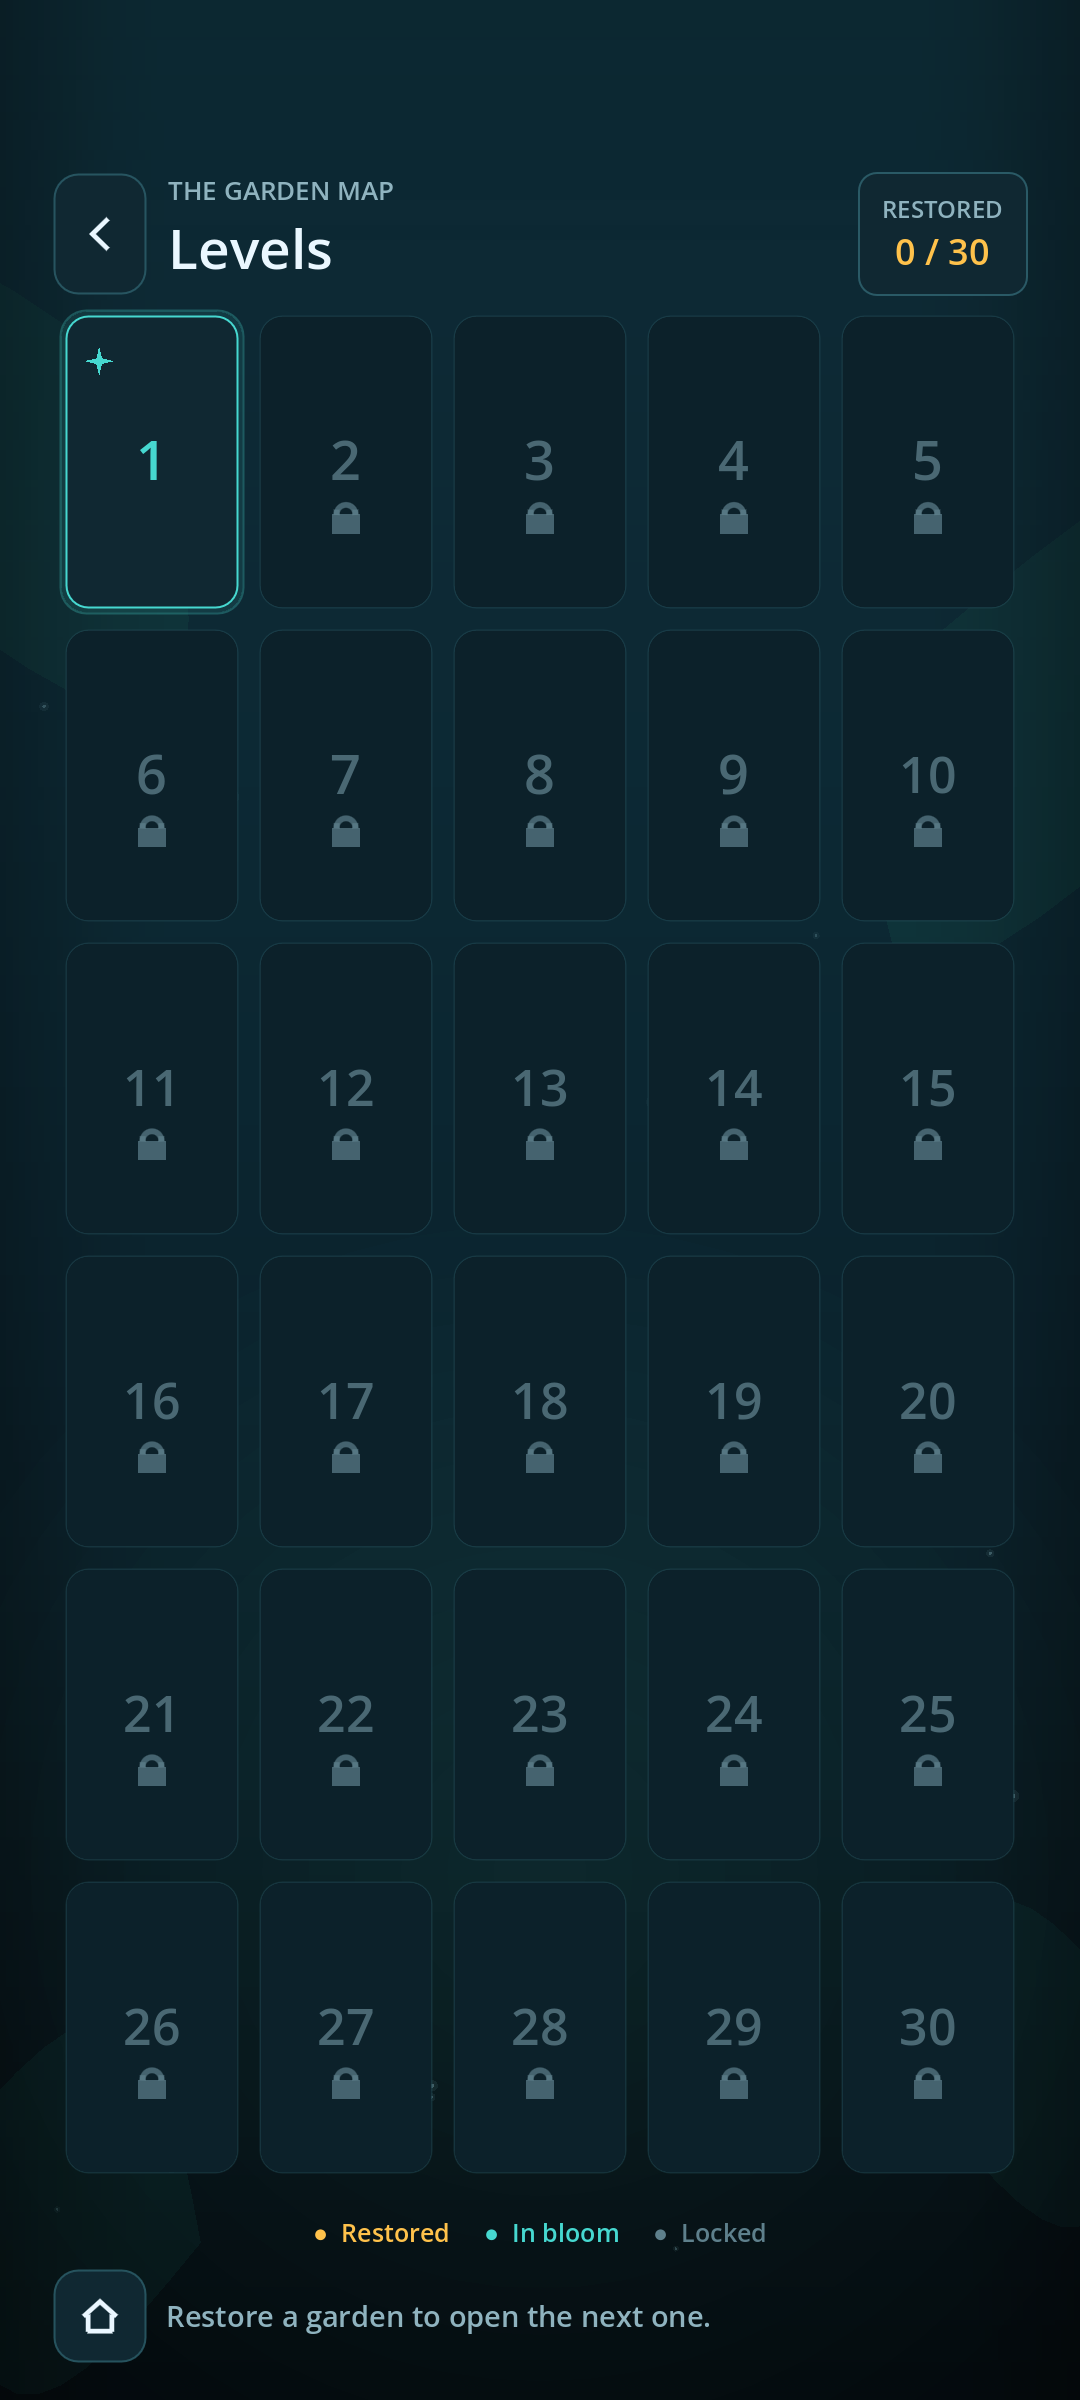
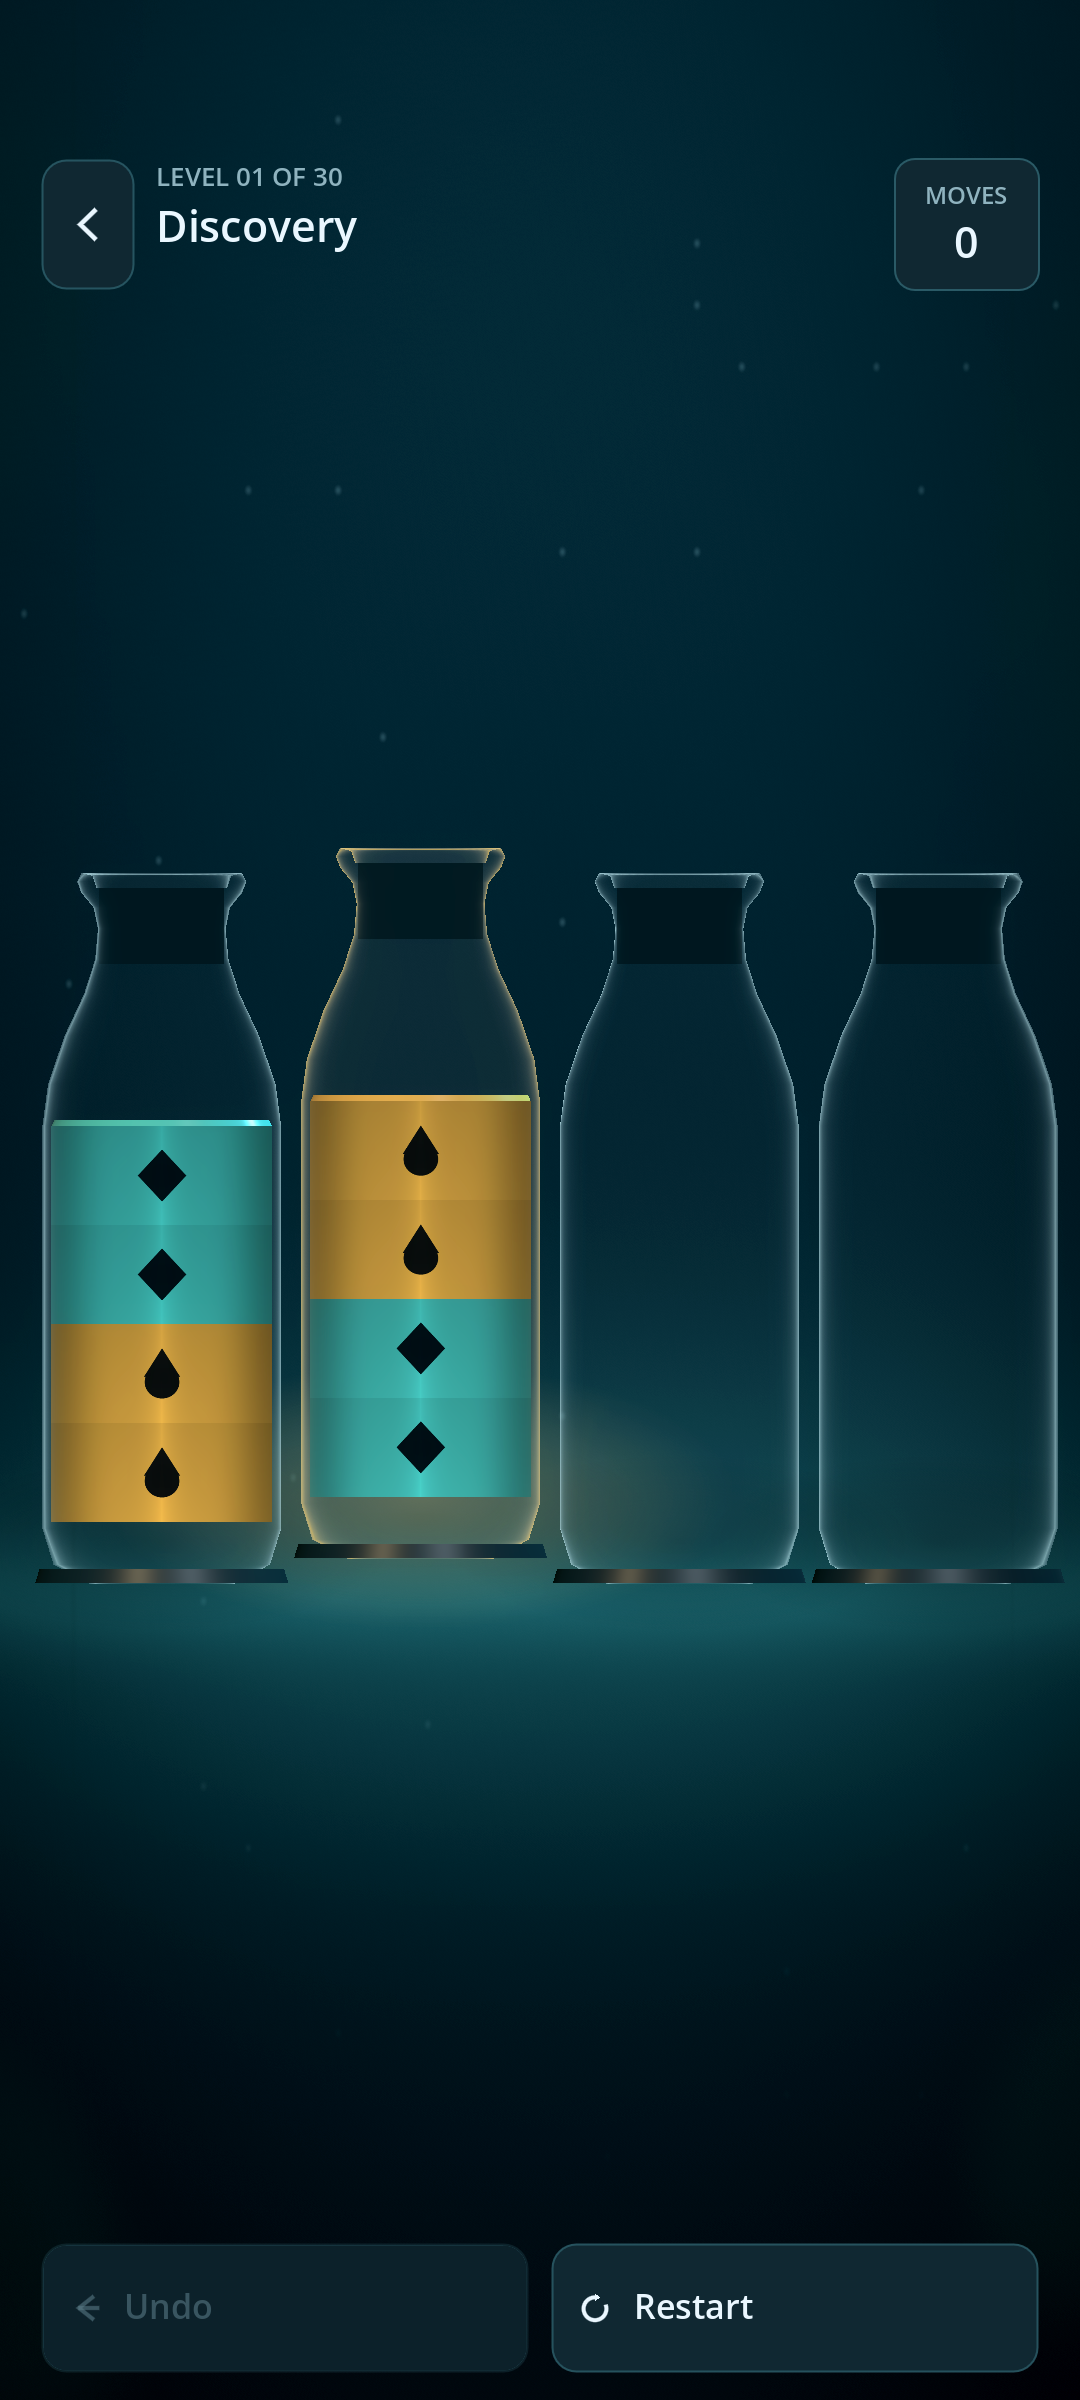
test: verify the 5- and 8-tube boards on Android
Level 30 (8 tubes, 6 colours) and level 16 (5 colours, 7 tubes) both render
cleanly at 411 dp: every vessel visible, no overlap, nothing clipped, and the
aqua/prism vs violet/hexagon pair stays distinguishable on level 16 - the worst
case in the QA-01 marginal band.

Also records that backing out of a level with no moves returns to the map without
a confirmation, which is the correct behaviour; the confirmation case (moves
taken) remains untested.

Levels were reached by seeding progress.json through run-as on the debuggable
build; no game code was changed.

diff --git a/docs/evidence/android/RESULTS.md b/docs/evidence/android/RESULTS.md
@@ -90,21 +90,22 @@ recorded; nothing is inferred.
 | D08 | Scaling at 1080 × 2400 | **PASS** | no letterbox, no stretch, UI fills the frame |
 | D09 | Safe areas | **PARTIAL** | immersive full-screen; emulator has no display cutout, so cutout handling is untested |
 | D10 | Home / Levels layout | **PASS** | `d01-home.png`, `d05-levels.png` — no clipping at 411 dp |
-| D11 | Gameplay at 4 tubes | **PASS** | `d06-gameplay.png`; 5/6/8 tubes not tested |
+| D11 | Gameplay at 4 / 5 / 8 tubes | **PASS** | 4 tubes `d06-gameplay.png`; 5 colours / 7 tubes (level 16) `d15-level16-5tubes.png`; 8 tubes / 6 colours (level 30) `d14-level30-8tubes.png`. All vessels visible, no overlap, nothing clipped at either extreme |
 | D13 | Tap accuracy at 4 tubes | **PASS** | selection and pour hit the intended tube |
 | D17 | Legal transfer | **PASS** | 2 units moved, MOVES 0 → 1, `d08-after-pour.png` |
 | D19 | Undo | **PASS** | board and counter restored, `d09-undo.png` |
+| D23 | Back out of a level with no moves | **PASS** | returns to the map with no confirmation, which is correct — the confirmation is only for a level with moves. **Not tested with moves taken** |
 | D25 | Complete level 1 | **PASS** | 3-move minimum, "Level Complete", `d10-complete.png` |
 | D27 | Force stop and relaunch | **PASS** | resumes with "Continue · Level 2", `d11-relaunch.png` |
 | D30 | Glass / vessel readability | **PASS (GL fallback)** | bands read as liquid with volume |
-| D31 | Colour separation symbols | **PASS** | distinct symbols visible on every band |
-| D40 | Crashes / freezes | **PASS so far** | no crash across install, launch, play, relaunch |
+| D31 | Colour separation symbols | **PASS** | level 16 (the even worst-case palette level) renders aqua/prism and violet/hexagon clearly distinguishable at 411 dp — `d15-level16-5tubes.png` |
+| D40 | Crashes / freezes | **PASS so far** | no crash across install, launch, play, relaunch, and 4/5/8-tube boards |
 
 **Not exercised — still `NOT TESTED`:** audio (D33–D35; emulator started with
-`-no-audio`), frame timing and thermals (D36–D38), memory growth (D39), all
-5/6/8-tube boards, restart confirmation (D21), back-navigation confirmation
-(D23, D24), mid-level kill (D29), and the launcher icon / adaptive icon rows
-(D03, D04).
+`-no-audio`), frame timing and thermals (D36–D38), memory growth (D39), the
+6-tube board, restart confirmation (D21), back-navigation confirmation with moves
+taken (D23 upper case), navigation from map/credits/home (D24), mid-level kill
+(D29), and the launcher icon / adaptive icon rows (D03, D04).
 
 ## 5. Screenshots
 
@@ -119,6 +120,13 @@ recorded; nothing is inferred.
 | `d10-complete.png` | completion card; Undo/Restart dimmed behind it |
 | `d11-relaunch.png` | after force stop — "Continue · Level 2" |
 | `d12-rotate-landscape.png` | landscape forced; app still portrait |
+| `d13-back-confirm.png` | back with no moves — straight to the map (no confirmation, correct) |
+| `d14-level30-8tubes.png` | level 30 — 8 tubes, 6 colours, no overlap |
+| `d15-level16-5tubes.png` | level 16 — the palette worst case; aqua/prism vs violet/hexagon distinguishable |
+
+To reach levels 16 and 30 the save was seeded directly (the debug build is
+`debuggable`, so `run-as` can replace `files/progress.json` with
+`{"unlocked":29,"best":{},"muted":false}`). No game code was changed for this.
 
 ## 6. What this changes
 
